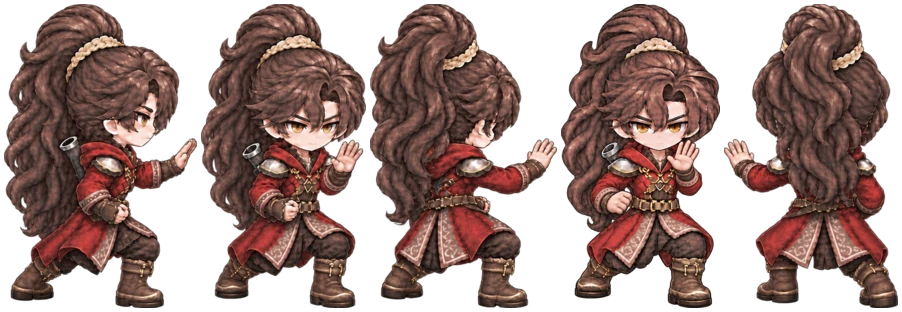
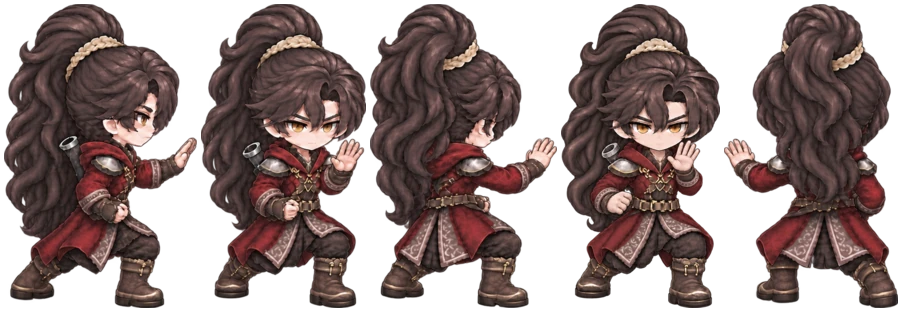
Match guard sprite colors to idle palette

Changed region(s): [[0.0, 0.0, 0.8071, 1.0], [0.8071, 0.0, 1.0, 1.0]]

diff --git a/src/assets/hero/academy/guard/README.md b/src/assets/hero/academy/guard/README.md
@@ -2,6 +2,8 @@
 
 기존 `unarmed/player_walk.png`를 이미지 생성 도구의 기준으로 사용해, 같은 큰 머리·작은 몸 비율과 붉은 코트·머리 모양을 유지한 막기 자세입니다. 오른발을 뒤로 빼고 앞쪽 왼무릎을 굽혀 버티는 자세입니다. 오른손은 허리 앞의 손잡이를 잡고, 왼손은 몸에서 조금 더 떨어진 칼날 중간을 받칩니다. 뒤로 뺀 발이 바뀌어도 몸이 옆으로 튀지 않도록 발 원점은 `FOOT_X`로 고정합니다. 후면의 손잡이 손은 몸 앞에 가려지고, 왼손은 몸 바깥에서 칼날을 받칩니다.
 
+5열 원화와 정면 전용 원화 모두 대기 이미지에 맞춰 색감을 보정했습니다. 머리카락의 밝은 구릿빛을 줄이고 차분한 짙은 갈색, 깊은 붉은 코트, 어두운 가죽색으로 맞췄습니다. 자세와 손·검 기준 좌표는 유지하며, 좌우 반전을 포함한 8방향의 대기/막기 모습을 함께 비교합니다.
+
 - `poses-source.png`: 투명 배경 5열 원화. 순서: 오른쪽 측면, 앞 대각선, 뒤 대각선, 정면(아래), 후면(위).
 - `side.png`, `down.png`, `up-back.png`, `front.png`, `back.png`: 원화에서 분리하고 높이를 맞춘 방향별 파일. 뒤 대각선은 오른쪽 위를 향하도록 반전합니다.
 - `front-source.png`: 정면 전용 원화. 오른손 주먹과 손목을 화면 오른쪽으로 틀어 기울어진 손잡이를 감싸도록 수정했습니다. 정면은 5열 원화 대신 이 파일에서 생성합니다.
